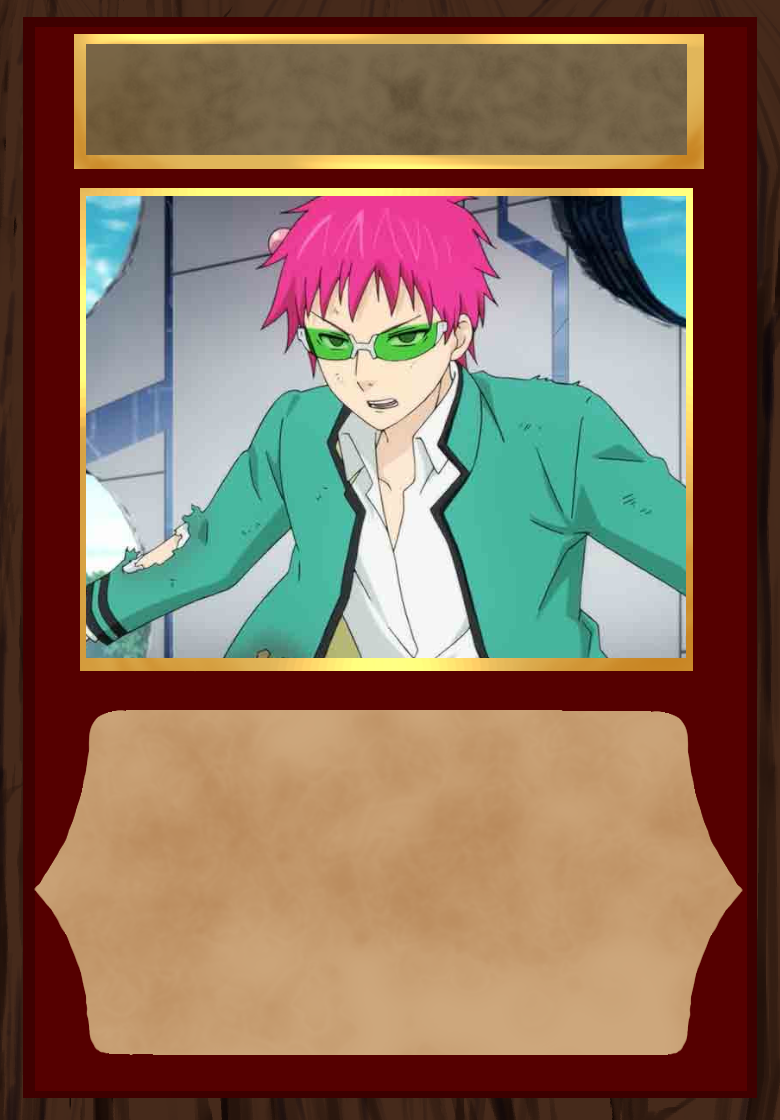
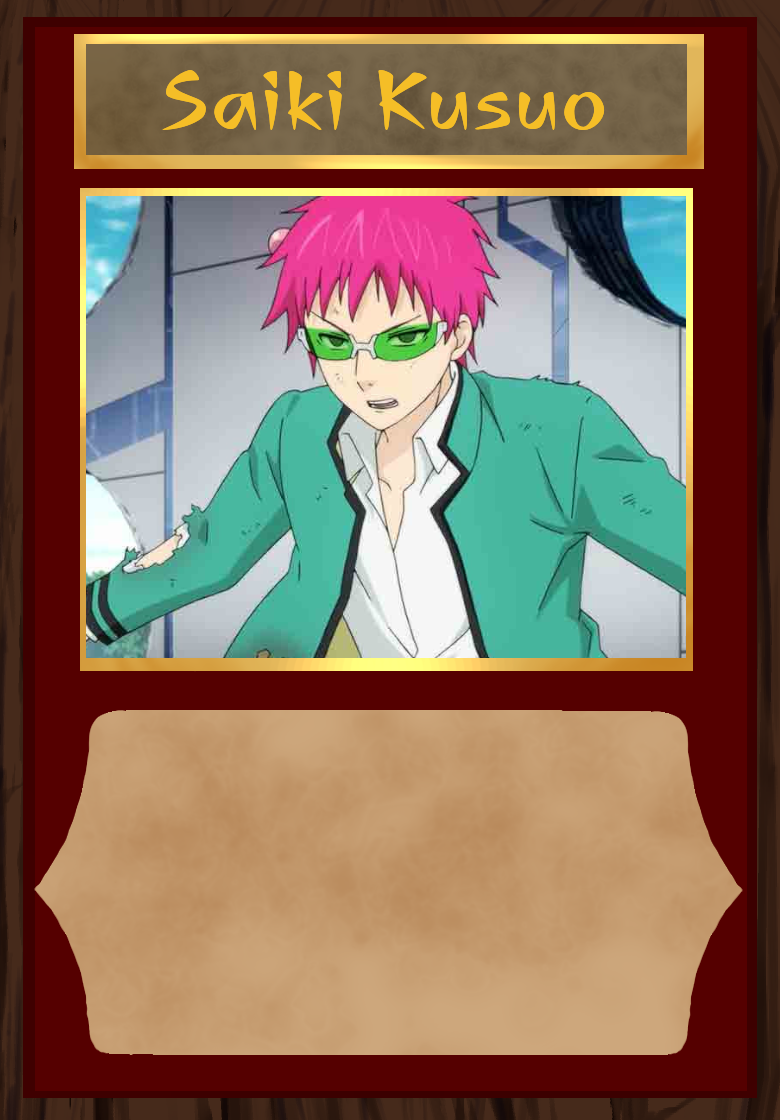
[PW] Affichage, refactoring et nouvelles cartes

Changed region(s): [[0.2154, 0.0625, 0.7692, 0.125]]

diff --git a/wwwroot/js/weeb.js b/wwwroot/js/weeb.js
@@ -1,5 +1,6 @@
 "use strict";
 
+
 window.addEventListener("resize", displayCanvas);
 
 var canvas = document.querySelector('#Canvas');
@@ -27,6 +28,10 @@ var currentBattleFieldEnemyPlayer = [];
 var currentMode = "basic";
 var selectedCardId = -1;
 var selectedCardPosition = -1;
+var enemyName = "";
+var playerName = "";
+var enemyLife = "";
+var playerLife = "";
 
 function displayCanvas() {
 
@@ -40,10 +45,7 @@ function displayCanvas() {
 
     basicWidth = getCardInHandWidth();
     basicHeigth = basicWidth * 56 / 39;
-    placeImages();
-    placeHandCards();
-    placeCardsOnBattleField();
-    drawImages();
+    doPlaceAndDraw();
 }
 
 canvas.addEventListener("mousedown", function (e) {
@@ -52,7 +54,6 @@ canvas.addEventListener("mousedown", function (e) {
         var x = pos[0];
         var y = pos[1];
 
-        //Différents état : endTurn, putCard, selectPlayedCard, selectHandCard, selectEnnemyCard, etc
         var ge = getGameElementOfClick(x, y);
         handleClick(ge, x, y);
     }
@@ -60,7 +61,7 @@ canvas.addEventListener("mousedown", function (e) {
 
 //Classe qui permettra de stocker l'emplacement des images sur l'écran avec la place prise pour facilement gérer les evenements au click
 var graphicElement = {
-    type: "", //card //cardposition //enemycard //btnNext //ennemy
+    type: "",
     info: "",
     position: "",
     life: 0,
@@ -74,11 +75,25 @@ var graphicElement = {
 
 var connection = new signalR.HubConnectionBuilder().withUrl("/GameHub").build();
 
-connection.on("InitializeGamePlayerSide", function (handCards) {
+connection.on("InitializeGamePlayerSide", function (name, life, handCards, otherPlayerName, otherPlayerLife) {
     currentHand = handCards;
-    placeImages();
-    placeHandCards();
-    drawImages();
+    playerName = name;
+    enemyName = otherPlayerName;
+    playerLife = life;
+    enemyLife = otherPlayerLife !== -1 ? otherPlayerLife : "";
+    doPlaceAndDraw();
+});
+
+connection.on("OtherPlayerConnected", function (name, life) {
+    enemyName = name;
+    enemyLife = life;
+    doPlaceAndDraw();
+});
+
+connection.on("CardAttackedSuccessfuly", function (pSide, eSide) {
+    currentBattleFieldEnemyPlayer = eSide;
+    currentBattleFieldCurrentPlayer = pSide;
+    doPlaceAndDraw();
 });
 
 connection.on("TurnChanged", function (isPlayerTurn, handCards) {
@@ -383,6 +398,46 @@ function placeCardsOnBattleField() {
     });
 }
 
+function placeText() {
+    //IL FAUT afficher les vies des cartes, les noms des joueurs et les vies des joueurs et le nombre d'action
+
+    var textSize = 15;
+    
+    //Player Name
+
+    var xPos = basicWidth * 0.2;
+    var yPos = totalHeight - basicHeigth * 0.75;
+
+    var ge = initGraphicElement("Text", playerName, null, xPos, yPos, textSize,0);
+    gameElements.push(ge);
+
+    //Player Life
+
+    xPos = basicWidth * 0.4;
+    yPos = totalHeight - basicHeigth * 0.35;
+
+    ge = initGraphicElement("Text", playerLife, null, xPos, yPos, 0, 0);
+    gameElements.push(ge);
+
+
+    //Enemy Name
+
+    xPos = totalWidth - basicWidth * 0.8;
+    yPos = basicHeigth * 0.25;
+
+    ge = initGraphicElement("Text", enemyName, null, xPos, yPos, 0, 0);
+    gameElements.push(ge);
+    
+    //Enemy Life
+
+    xPos = totalWidth - basicWidth * 0.6;
+    yPos = basicHeigth * 0.65;
+
+    ge = initGraphicElement("Text", enemyLife, null, xPos, yPos, 0, 0);
+    gameElements.push(ge);
+
+
+}
 
 function placeImages() {
 
@@ -451,18 +506,32 @@ function placeImages() {
 
 }
 
+function doPlaceAndDraw() {
+    gameElements = [];
+    placeImages();
+    placeHandCards();
+    placeCardsOnBattleField();
+    placeText();
+    drawImages();
+}
+
 function drawImages() {
     context.drawImage(cardImages[24], 0, 0, context.canvas.width, context.canvas.height);
     gameElements.forEach(function (ge) {
-        if (ge.type !== "EnemyPlayedCard") {
-            context.drawImage(ge.image, ge.posX, ge.posY, ge.width, ge.height);
-        }
-        else {
+        if (ge.type === "EnemyPlayedCard") {
             context.save();
             context.translate(ge.posX + ge.width, ge.posY + ge.height);
             context.rotate(Math.PI);
             context.drawImage(ge.image, 0, 0, ge.width, ge.height);
             context.restore();
+        }
+        if (ge.type === "Text") {
+            context.font = "bold 22pt Calibri,Geneva,Arial"; //TODO responsive
+            context.fillStyle = "#f5be27";
+            context.fillText(ge.info, ge.posX, ge.posY);
+        }
+        else {
+            context.drawImage(ge.image, ge.posX, ge.posY, ge.width, ge.height);
         }
     });
 }

diff --git a/GameCard/Business/Game.cs b/GameCard/Business/Game.cs
@@ -1,5 +1,6 @@
 using System;
 using System.Collections.Generic;
+using System.Composition.Hosting.Core;
 using System.Linq;
 using System.Threading.Tasks;
 using System.Timers;
@@ -16,9 +17,7 @@ namespace ProjectWeeb.GameCard.Business
         {
             Player1 = p1;
             Date = DateTime.Now;
-
-            IsGameStarted = false;
-
+            
             BattleField = new BattleField();
 
             GameConnection = new HubConnectionBuilder().WithUrl("http://trucmachin/GameHub").Build();
@@ -47,13 +46,6 @@ namespace ProjectWeeb.GameCard.Business
         }
 
         public DateTime Date { get; set; }
-
-        public bool AllPlayerConnected
-        {
-            get { return Player1 != null && Player2 != null; }
-        }
-
-        public bool IsGameStarted { get; set; }
 
         public BattleField BattleField { get; set; }
 
@@ -98,7 +90,7 @@ namespace ProjectWeeb.GameCard.Business
 
         private async Task PlayerConnected(int idPlayer, string connectionId)
         {
-            if (IsGameStarted)
+            if (Player1 != null && Player1.IdUser == idPlayer && Player1.IsConnected || Player2 != null && Player2.IdUser == idPlayer && Player2.IsConnected)
             {
                 await ReconnectPlayer(idPlayer,connectionId);
             }
@@ -138,6 +130,10 @@ namespace ProjectWeeb.GameCard.Business
         {
             int[][] handCards = null;
             List<Card> drawnCards = null;
+            int life = -1;
+            int otherPlayerLife = -1;
+            string name = null;
+            string otherPlayerName = "";
 
             if (idPlayer == Player1.IdUser)
             {
@@ -149,7 +145,20 @@ namespace ProjectWeeb.GameCard.Business
                     Player1.CurrentHand.Add(drawnCard);
                 }
 
+                life = Player1.Hp;
+                name = Player1.Pseudo;
+
                 handCards = ComputeCards(Player1.CurrentHand);
+
+                Player1.IsConnected = true;
+
+                if (Player2?.ConnectionId != null)
+                {
+                    await GameConnection.InvokeAsync("EnemyConnected", Player2.ConnectionId, life, name);
+                    otherPlayerName = Player2.Pseudo;
+                    otherPlayerLife = Player2.Hp;
+                }
+
             }
             else if (idPlayer == Player2.IdUser)
             {
@@ -161,12 +170,25 @@ namespace ProjectWeeb.GameCard.Business
                     Player2.CurrentHand.Add(drawnCard);
                 }
 
+                life = Player2.Hp;
+                name = Player2.Pseudo;
+
                 handCards = ComputeCards(Player2.CurrentHand);
+
+                Player2.IsConnected = true;
+                
+                if (Player1?.ConnectionId != null)
+                {
+                    await GameConnection.InvokeAsync("EnemyConnected", Player1.ConnectionId, life, name);
+                    otherPlayerName = Player1.Pseudo;
+                    otherPlayerLife = Player1.Hp;
+                }
+
             }
 
-            await GameConnection.InvokeAsync("InitializeGame", connectionId, handCards);
+            await GameConnection.InvokeAsync("InitializeGame", connectionId,life, name, handCards, otherPlayerName, otherPlayerLife);
 
-            if (AllPlayerConnected)
+            if (Player1 != null && Player2 != null)
             {
                 CurrentPlayerIdTurn = Player1.IdUser;
                 int[][] p1handCards = ComputeCards(Player1.CurrentHand);
@@ -203,7 +225,6 @@ namespace ProjectWeeb.GameCard.Business
             if (Player1.IdUser == idUser)
             {
                 Card card = BattleField.GetPlayer1CardByPosition(positionOrigin);
-
                 AttackManager.AttackById[0].Invoke(positionOrigin,positionTargeted,true);
 
                 //BattleField.DamagePlayer2CardByPosition(positionTargeted, card.Strength);

diff --git a/Communication/GameHub.cs b/Communication/GameHub.cs
@@ -19,11 +19,17 @@ namespace ProjectWeeb.Communication
         }
 
         
-        public async Task InitializeGame(string connectionId, int[][] handCards)
+        public async Task InitializeGame(string connectionId, int life, string name,int[][] handCards, string nameOtherPlayer, int otherPlayerLife)
         {
-            await Clients.Client(connectionId).SendAsync("InitializeGamePlayerSide", handCards);
+            await Clients.Client(connectionId).SendAsync("InitializeGamePlayerSide",
+                name,life, handCards, nameOtherPlayer, otherPlayerLife);
         }
-        
+
+        public async Task EnemyConnected(string connectionId, int life, string name)
+        {
+            await Clients.Client(connectionId).SendAsync("OtherPlayerConnected", name, life);
+        }
+
         public async Task SetPlayerTurn(string connectionIdP1, string connectionIdP2, int[][] p1handCards, int[][] p2handCards)
         {
             Clients.Client(connectionIdP1).SendAsync("TurnChanged", true, p1handCards);

diff --git a/GameCard/Business/Player.cs b/GameCard/Business/Player.cs
@@ -13,6 +13,7 @@ namespace ProjectWeeb.GameCard.Business
             Hp = 20;
             DrawPile = deck.Cards;
             CurrentHand = new List<Card>();
+            IsConnected = false;
         }
 
         public string Pseudo { get; set; }
@@ -30,5 +31,7 @@ namespace ProjectWeeb.GameCard.Business
         public string ConnectionId { get; set; }
 
         public int RemainingActions { get; set; }
+
+        public bool IsConnected { get; set; }
     }
 }
